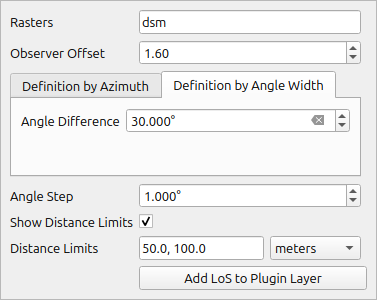
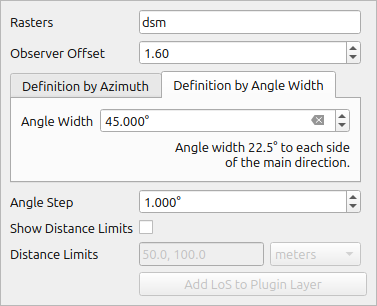
rename variables and add explaining text

diff --git a/los_tools/gui/los_without_target_visualization/los_without_target_widget.py b/los_tools/gui/los_without_target_visualization/los_without_target_widget.py
@@ -54,15 +54,18 @@ class LoSNoTargetInputWidget(LoSDigitizingToolWidget):
         self._max_angle.valueChanged.connect(self.valuesChanged.emit)
         self._max_angle.valueChanged.connect(self.save_settings)
 
-        self._angle_difference = QgsDoubleSpinBox(self)
-        self._angle_difference.setMinimum(0.000)
-        self._angle_difference.setMaximum(180.000)
-        self._angle_difference.setValue(10.000)
-        self._angle_difference.setClearValue(10.000)
-        self._angle_difference.setDecimals(3)
-        self._angle_difference.setSuffix("°")
-        self._angle_difference.valueChanged.connect(self.valuesChanged.emit)
-        self._angle_difference.valueChanged.connect(self.save_settings)
+        self._angle_width = QgsDoubleSpinBox(self)
+        self._angle_width.setMinimum(0.000)
+        self._angle_width.setMaximum(180.000)
+        self._angle_width.setValue(10.000)
+        self._angle_width.setClearValue(10.000)
+        self._angle_width.setDecimals(3)
+        self._angle_width.setSuffix("°")
+        self._angle_width.valueChanged.connect(self.valuesChanged.emit)
+        self._angle_width.valueChanged.connect(self.save_settings)
+        self._angle_width.valueChanged.connect(self.change_angle_width_label)
+
+        self._angle_width_label = QLabel("")
 
         page_1 = QWidget(self)
         page_1_layout = QFormLayout()
@@ -75,7 +78,8 @@ class LoSNoTargetInputWidget(LoSDigitizingToolWidget):
         page_2_layout = QFormLayout()
         page_2.setLayout(page_2_layout)
 
-        page_2_layout.addRow("Angle Difference", self._angle_difference)
+        page_2_layout.addRow("Angle Width", self._angle_width)
+        page_2_layout.addWidget(self._angle_width_label)
 
         self._tabs = QTabWidget(self)
         self._tabs.addTab(page_1, "Definition by Azimuth")
@@ -128,6 +132,8 @@ class LoSNoTargetInputWidget(LoSDigitizingToolWidget):
 
         self._unit = QgsUnitTypes.DistanceUnit.DistanceMeters
 
+        self.change_angle_width_label()
+
     def _on_minimum_changed(self) -> None:
         if self._max_angle.value() < self._min_angle.value():
             self._max_angle.setValue(self._min_angle.value())
@@ -137,8 +143,8 @@ class LoSNoTargetInputWidget(LoSDigitizingToolWidget):
             self._min_angle.setValue(self._max_angle.value())
 
     def _angle_step_changed(self) -> None:
-        if self._angle_step.value() > self._angle_difference.value() * 2:
-            self._angle_step.setValue(self._angle_difference.value() * 2)
+        if self._angle_step.value() > self._angle_width.value() * 2:
+            self._angle_step.setValue(self._angle_width.value() * 2)
 
     @property
     def los_type_definition(self) -> LoSNoTargetDefinitionType:
@@ -167,8 +173,8 @@ class LoSNoTargetInputWidget(LoSDigitizingToolWidget):
         self._unit = unit
 
     @property
-    def angle_difference(self) -> float:
-        return self._angle_difference.value()
+    def angle_width(self) -> float:
+        return self._angle_width.value()
 
     @property
     def show_distance_limits(self) -> bool:
@@ -204,7 +210,7 @@ class LoSNoTargetInputWidget(LoSDigitizingToolWidget):
             section=QgsSettings.Section.Plugins,
         )
         settings.setValue(
-            f"{settings_class}/AngleDifference", self._angle_difference.value(), section=QgsSettings.Section.Plugins
+            f"{settings_class}/AngleWidth", self._angle_width.value(), section=QgsSettings.Section.Plugins
         )
         settings.setValue(
             f"{settings_class}/LoSType", self.los_type_definition.value, section=QgsSettings.Section.Plugins
@@ -264,11 +270,19 @@ class LoSNoTargetInputWidget(LoSDigitizingToolWidget):
         with QSignalBlocker(self._distances):
             self._distances.set_units(unit)
 
-        with QSignalBlocker(self._angle_difference):
-            self._angle_difference.setValue(
-                settings.value(f"{settings_class}/AngleDifference", 10, type=float, section=QgsSettings.Section.Plugins)
+        with QSignalBlocker(self._angle_width):
+            self._angle_width.setValue(
+                settings.value(f"{settings_class}/AngleWidth", 10, type=float, section=QgsSettings.Section.Plugins)
             )
 
         with QSignalBlocker(self._tabs):
             tab_index = settings.value(f"{settings_class}/LoSType", 0, type=int, section=QgsSettings.Section.Plugins)
             self._tabs.setCurrentIndex(tab_index)
+
+        self.change_angle_width_label()
+
+    def change_angle_width_label(self) -> None:
+        self._angle_width_label.setAlignment(Qt.AlignmentFlag.AlignRight)
+        self._angle_width_label.setText(
+            f"Angle width {round(self._angle_width.value() / 2, 2)}° to each side " "\n" "of the main direction."
+        )

diff --git a/los_tools/gui/los_without_target_visualization/los_without_target.py b/los_tools/gui/los_without_target_visualization/los_without_target.py
@@ -125,8 +125,8 @@ class LosNoTargetMapTool(LoSDigitizingToolWithWidget):
                 angle = self._start_point.azimuth(self.end_point())
 
                 angles = self.los_angles(
-                    angle - self._widget.angle_difference,
-                    angle + self._widget.angle_difference,
+                    angle - (self._widget.angle_width / 2),
+                    angle + (self._widget.angle_width / 2),
                     self._widget.angle_step,
                 )
 
@@ -159,8 +159,8 @@ class LosNoTargetMapTool(LoSDigitizingToolWithWidget):
             angle = self._start_point.azimuth(self.end_point())
 
             angles = self.los_angles(
-                angle - self._widget.angle_difference,
-                angle + self._widget.angle_difference,
+                angle - (self._widget.angle_width / 2),
+                angle + (self._widget.angle_width / 2),
                 self._widget.angle_step,
             )
 

diff --git a/tests/classes/test_los.py b/tests/classes/test_los.py
@@ -1,0 +1,14 @@
+import pytest
+from qgis.core import QgsVectorLayer
+
+from los_tools.classes.classes_los import LoSGlobal, LoSLocal, LoSWithoutTarget
+
+
+def test_los_creation(los_local: QgsVectorLayer) -> None:
+
+    feature = los_local.getFeature(1)
+
+    los_local_object = LoSLocal.from_feature(feature, sampling_distance=1)
+
+    assert los_local_object.points
+    assert len(los_local_object.points) == 63
